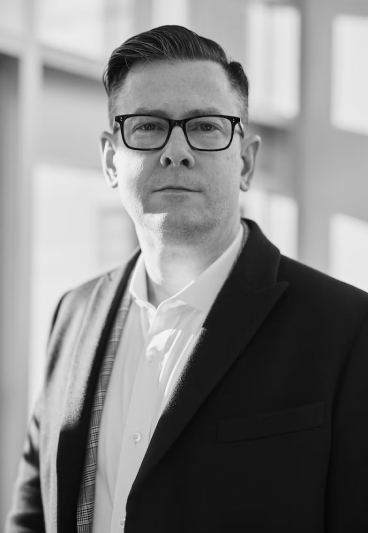
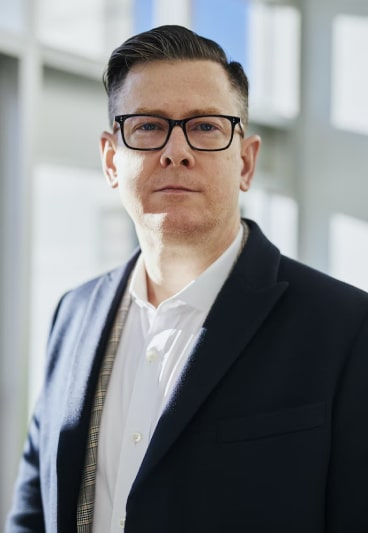
Reduce font sizes and slider greyscale

diff --git a/assets/css/style.css b/assets/css/style.css
@@ -55,7 +55,7 @@ header .nav-link{
     background-image: url(../images/banner-img-new.jpg);
     background-repeat: no-repeat;
     background-size: cover;
-    padding: 180px 0 950px;
+    padding: 320px 0 950px;
     position: relative;
 }
 .banner-heading{
@@ -141,7 +141,7 @@ header .nav-link{
 }
 .box-content p{
     color: #484848;
-    font-size: 30px;
+    font-size: 24px;
     font-style: normal;
     line-height: 1.6;
 }
@@ -204,10 +204,10 @@ header .nav-link{
 }
 .strategic-content p{
     color: #333;
-    font-size: 24px;
+    font-size: 20px;
+    line-height: 30px;
     font-style: normal;
     font-weight: 400;
-    line-height: 176.6%;
     letter-spacing: 0.48px;
     margin-bottom: 40px;
 }
@@ -241,10 +241,10 @@ header .nav-link{
 }
 .vision-box ul li, .vision-box p{
     color: #333;
-    font-size: 24px;
+    font-size: 20px;
+    line-height: 30px;
     font-style: normal;
     font-weight: 400;
-    line-height: 36px;
     max-width: 500px;
 }
 .vision-box ul li{
@@ -305,11 +305,11 @@ header .nav-link{
 
 .slider-single h3 {
     color: #3259AE;
-    font-size: 40px;
+    font-size: 32px;
     font-style: normal;
     font-weight: 600;
     line-height: normal;
-    margin: 26px 0;
+    margin: 26px 0 18px 0;
 }
 .slider-single p{
     color: #FFF;
@@ -326,6 +326,7 @@ header .nav-link{
 }
 .team-slider .read-more{
     color: #fff;
+    font-size: 20px;
 }
 .team-slider::before{
     content: '';
@@ -345,9 +346,14 @@ header .nav-link{
     position: relative;
     padding: 60px 0px 0px 60px;
     margin-bottom: 100px;
+    overflow: hidden;
+}
+.slider-nav .slick-list{
+    margin-right: -5px;
 }
 .team-heading{
     color: #F2F3F5;
+    margin-bottom: 30px !important;
 }
 .slider-single{
     padding-bottom: 120px;
@@ -398,6 +404,11 @@ header .nav-link{
 .form-img{
     max-width: fit-content !important;
 }
+.form-img img{
+    height: 100%;
+    width: inherit;
+    border-radius: 5px;
+}
 .form-main{
     max-width: 800px !important;
     margin-top: 10px !important;
@@ -422,10 +433,10 @@ header .nav-link{
     overflow: hidden;
 }
 .form-sec .secondary-heading{
-    padding-bottom: 70px;
+    padding-bottom: 20px;
 }
 .secondary-heading{
-    font-size: 54px;
+    font-size: 50px;
     font-style: normal;
     font-weight: 600;
     line-height: normal;
@@ -469,6 +480,7 @@ header .nav-link{
     letter-spacing: 0.72px;
     min-width: 230px;
     height: 64px;
+    transition: all 0.2s;
 }
 #footer{
     margin-top: 100px;
@@ -558,14 +570,15 @@ header .nav-link{
     font-weight: 500;
     text-decoration: none;
     line-height: normal;
+    transition: all 0.2s;
     letter-spacing: 1.213px;
 }
 #footer .address{
     color: #FFF;
-    font-size: 18px;
+    font-size: 16px;
     font-style: normal;
     font-weight: 500;
-    line-height: 195.775%;
+    line-height: 180%;
     letter-spacing: 1.213px;
     max-width: 290px;
     margin-top: 70px;
@@ -586,7 +599,7 @@ header .nav-link{
 }
 .terms-condition{
     color: #779DF2;
-    font-size: 18px;
+    font-size: 16px;
     font-style: normal;
     font-weight: 500;
     line-height: 195.775%;
@@ -599,10 +612,11 @@ header .nav-link{
 .footer-bottom-mail p a{
     text-decoration: none;
     color: #212121;
+    transition: all 0.2s;
 }
 .footer-bottom-mail p{
     color: #212121;
-    font-size: 24px;
+    font-size: 20px;
     font-style: normal;
     font-weight: 600;
     line-height: normal;
@@ -641,10 +655,24 @@ header .nav-link{
 .terms-menu li a{
     color: #779DF2;
     transition: all 0.2s;
-    font-size: 18px;
+    font-size: 16px;
     font-style: normal;
     font-weight: 500;
     line-height: 195.775%;
     letter-spacing: 1.213px;
     text-decoration: none;
+}
+.contact-btn:hover, .theme-btn:hover{
+    background: #3259aee0 !important;
+}
+.footer-bottom-mail p a:hover, .footer-inner-col ul li a:hover{
+    color: #3259AE;
+    text-decoration: underline;
+}
+.slider-nav .slick-current .custom-slide{
+    filter: grayscale(0);
+}
+.slider-nav .custom-slide{
+    filter: grayscale(100);
+    /* transition: all 0.2s; */
 }

diff --git a/index.html b/index.html
@@ -174,7 +174,7 @@
                     </a>
                     </div>
                 </div>
-                <div class="col-7 slider slider-nav">
+                <div class="col-7 slider slider-nav pe-0">
                     <div>
                     <img class="custom-slide" src="assets/images/member-1.jpg" alt="Team Member 1">
                     </div>
@@ -195,7 +195,7 @@
         <div class="container">
             <div class="row justify-content-center">
                 <div class="col-md-6">
-                    <h2 class="text-center secondary-heading">Contact Us</h2>
+                    
                 </div>
             </div>
             <div class="row">
@@ -203,6 +203,7 @@
                     <img src="assets/images/form-img.jpg" alt="">
                 </div>
                 <div class="col form-main">
+                    <h2 class="text-center secondary-heading">Contact Us</h2>
                     <form>
                         <div class="form-group">
                             <label for="fullName">Name</label>
